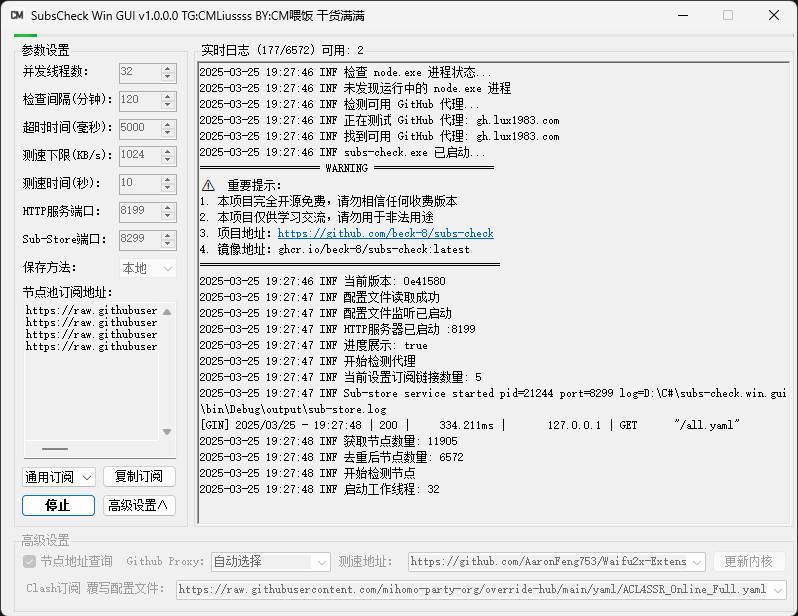
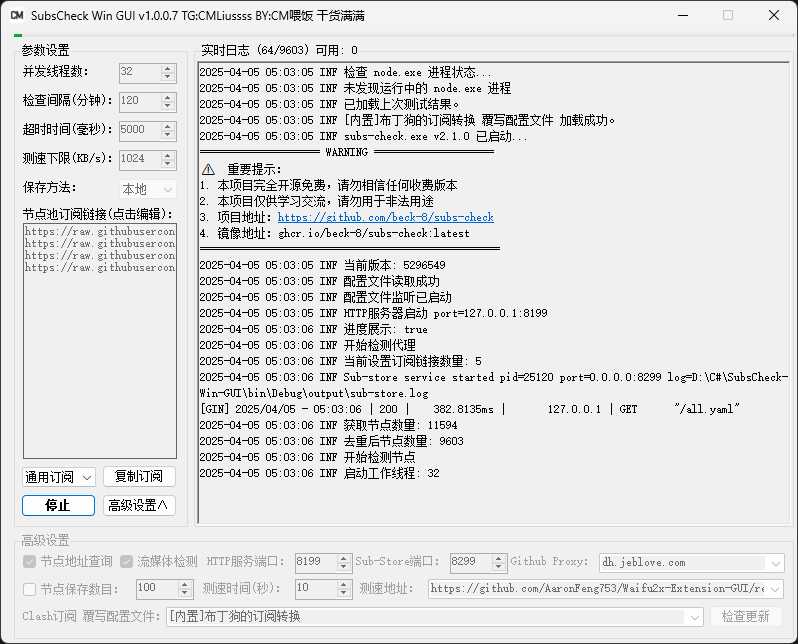
更新 README.md，添加新的配置文件说明

diff --git a/README.md b/README.md
@@ -53,8 +53,10 @@ Upgrade.ini                 # 升级配置文件
 config
  └─ config.yaml             # subs-check 配置文件  
 output
+ ├─ ACL4SSR_Online_Full.yaml # ACL4SSR_Online_Full.yaml 覆写配置文件
  ├─ all.yaml                # yaml格式 测试结果
  ├─ base64.txt              # base64格式 测试结果
+ ├─ bdg.yaml                # 布丁狗的订阅转换.yaml 覆写配置文件
  ├─ mihomo.yaml             # clash订阅文件 带分流规则
  ├─ node.exe                # sub-store 服务
  ├─ root.json               # sub-store 配置文件
